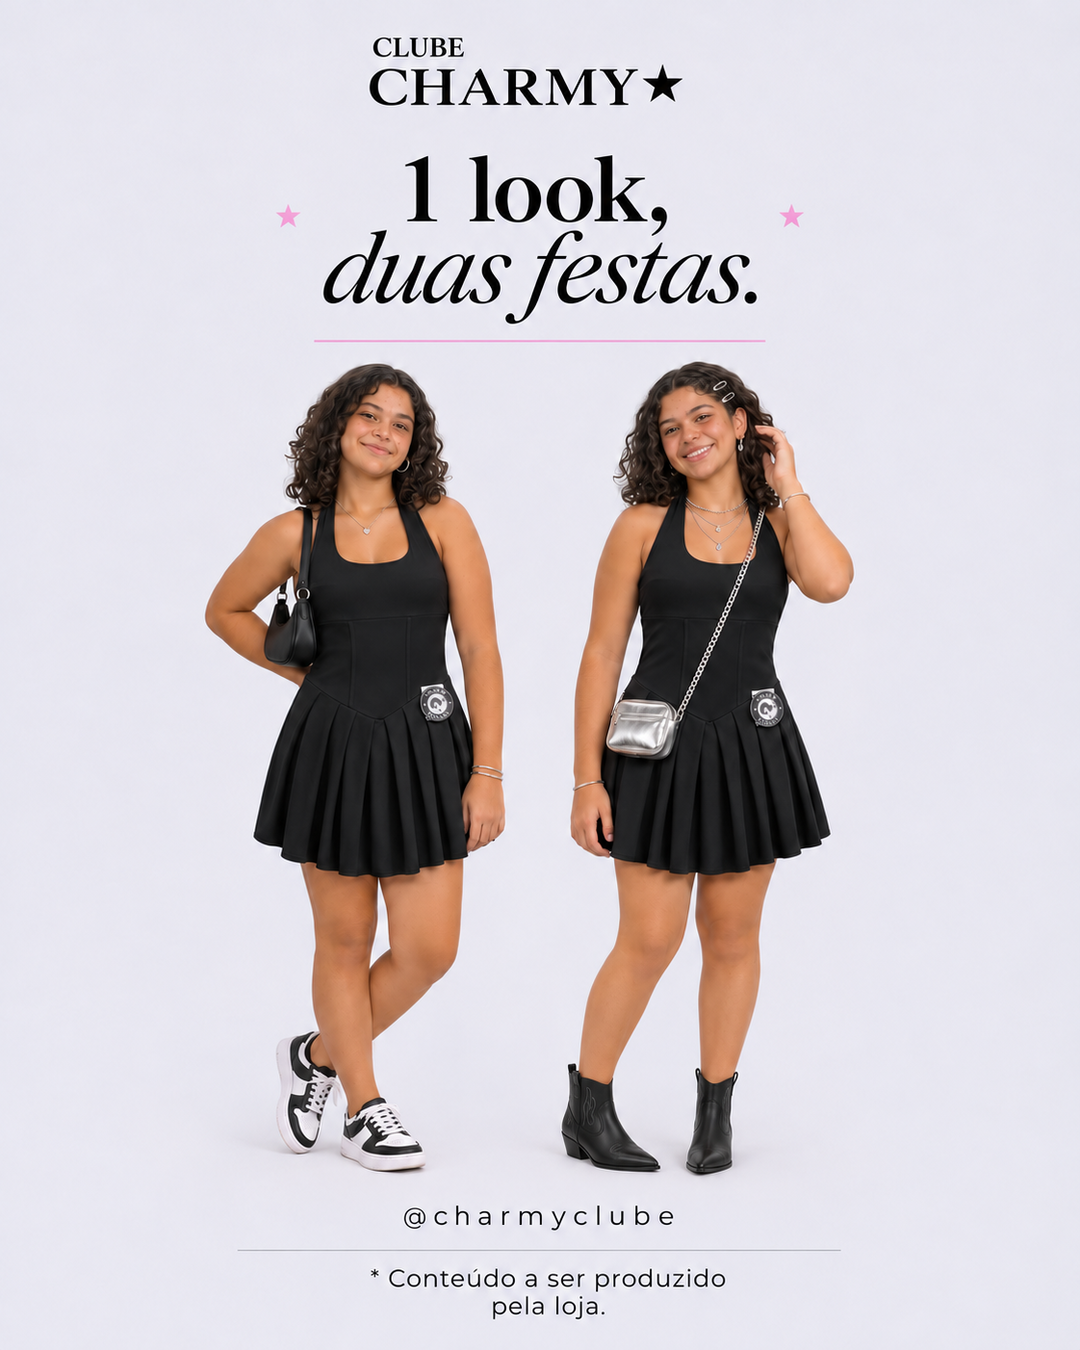
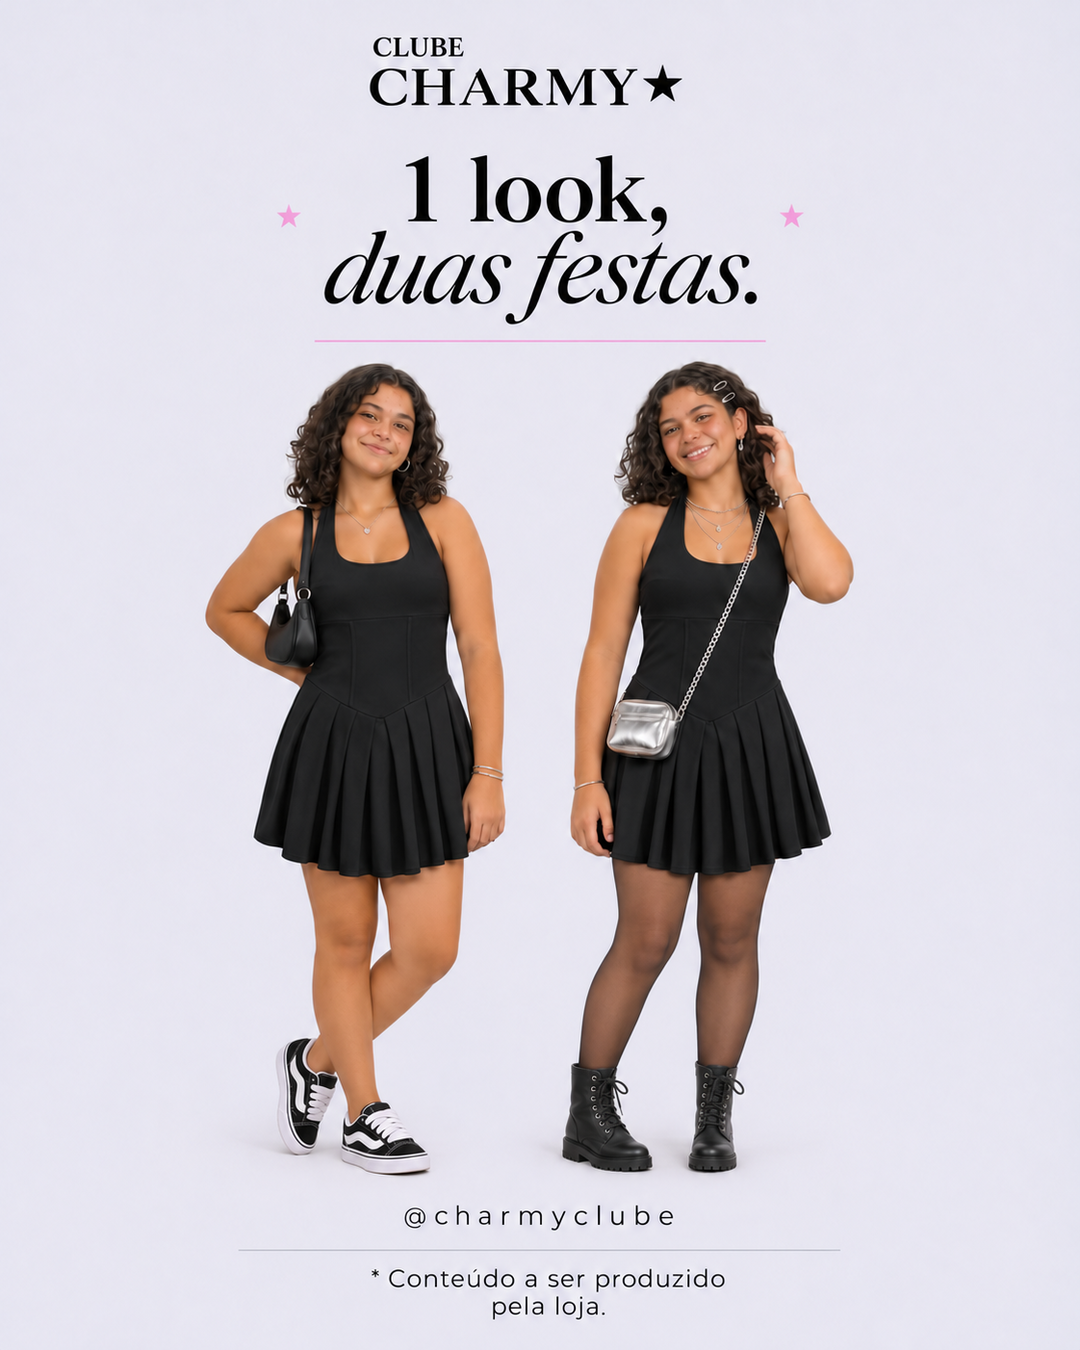
Ajusta seis capas com calçados de referência e meia-calça

diff --git a/src/data/proposed-covers.js b/src/data/proposed-covers.js
@@ -18,7 +18,7 @@ const covers = {
   },
   "charmy-notion-dec-07": {
     "src": "src/assets/posts/capas-sugeridas/transicao-look.png",
-    "alt": "Capa sugerida de Transição de look, com modelos adolescentes ilustrativas e roupas da coleção Natal e Ano Novo. Conteúdo a ser produzido pela loja.",
+    "alt": "Capa sugerida de Transição de look: adolescente com jeans e tênis branco e azul, e vestido Lorena preto com botas altas de salto e meia-calça transparente. Conteúdo a ser produzido pela loja.",
     "title": "Transição de look",
     "products": [
       {
@@ -56,7 +56,7 @@ const covers = {
   },
   "charmy-notion-dec-10": {
     "src": "src/assets/posts/capas-sugeridas/duas-festas.png",
-    "alt": "Capa sugerida de 1 look para duas festas, com modelos adolescentes ilustrativas e roupas da coleção Natal e Ano Novo. Conteúdo a ser produzido pela loja.",
+    "alt": "Capa sugerida de 1 look para duas festas: vestido Lorena preto com tênis de skate preto e branco, e versão festival com coturnos e meia-calça preta transparente. Conteúdo a ser produzido pela loja.",
     "title": "1 look para duas festas",
     "products": [
       {
@@ -82,7 +82,7 @@ const covers = {
   },
   "roteiros-charmy-v1-2": {
     "src": "src/assets/posts/capas-sugeridas/tres-vibes.png",
-    "alt": "Capa sugerida de 1 Peça, 3 Vibes: três combinações das peças da coleção Natal e Ano Novo, com calçados, bolsas e acessórios. Conteúdo a ser produzido pela loja.",
+    "alt": "Capa sugerida de 1 Peça, 3 Vibes: combinações da coleção com tênis de skate preto e branco, botas de plataforma e sandálias anabela brancas com tiras de brilho. Conteúdo a ser produzido pela loja.",
     "title": "1 Peça, 3 Vibes",
     "products": [
       {
@@ -101,7 +101,7 @@ const covers = {
   },
   "roteiros-charmy-v1-3": {
     "src": "src/assets/posts/capas-sugeridas/poder-styling.png",
-    "alt": "Capa sugerida de O Poder do Styling, com modelos adolescentes ilustrativas e roupas da coleção Natal e Ano Novo. Conteúdo a ser produzido pela loja.",
+    "alt": "Capa sugerida de O Poder do Styling: adolescente com jeans wide leg, top vermelho, camisa branca e tênis branco com detalhes azul-claro. Conteúdo a ser produzido pela loja.",
     "title": "O Poder do Styling",
     "products": [
       {
@@ -120,7 +120,7 @@ const covers = {
   },
   "roteiros-charmy-v1-5": {
     "src": "src/assets/posts/capas-sugeridas/grwm-sabado.png",
-    "alt": "Capa sugerida de GRWM: Rolê de Sábado, com modelos adolescentes ilustrativas e roupas da coleção Natal e Ano Novo. Conteúdo a ser produzido pela loja.",
+    "alt": "Capa sugerida de GRWM: Rolê de Sábado, com adolescente em body branco, saia Lana preta, meia-calça transparente e botas de plataforma com salto bloco. Conteúdo a ser produzido pela loja.",
     "title": "GRWM: Rolê de Sábado",
     "products": [
       {
@@ -135,7 +135,7 @@ const covers = {
   },
   "roteiros-charmy-v1-6": {
     "src": "src/assets/posts/capas-sugeridas/efeito-charmy.png",
-    "alt": "Capa sugerida de O Efeito Charmy: adolescente de tranças boho em dois looks Lorena, com tênis Puma branco e bota preta de cano alto com salto. Conteúdo a ser produzido pela loja.",
+    "alt": "Capa sugerida de O Efeito Charmy: adolescente de tranças em looks Lorena, com tênis de lona preto e meia-calça transparente, e botas pretas de cano alto franzido com salto. Conteúdo a ser produzido pela loja.",
     "title": "O Efeito Charmy",
     "products": [
       {
